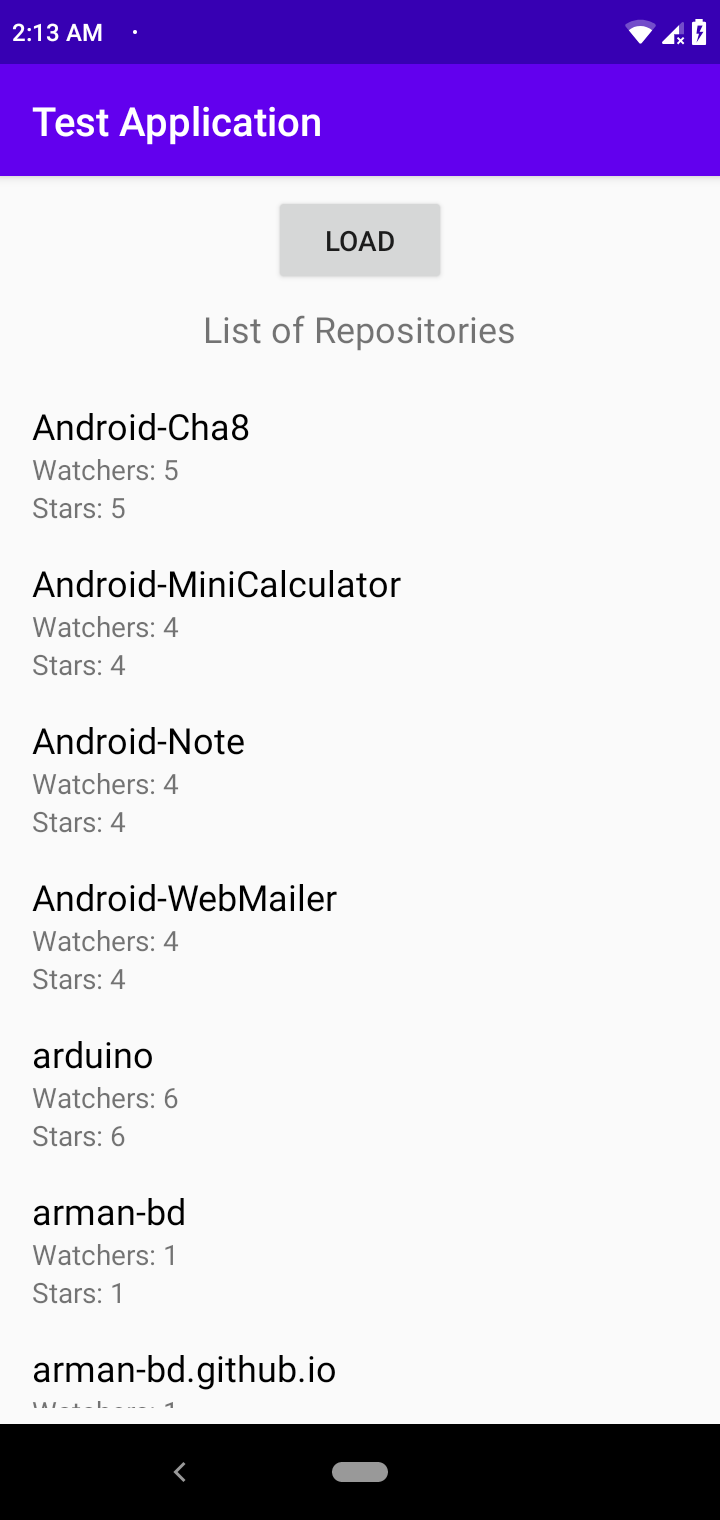
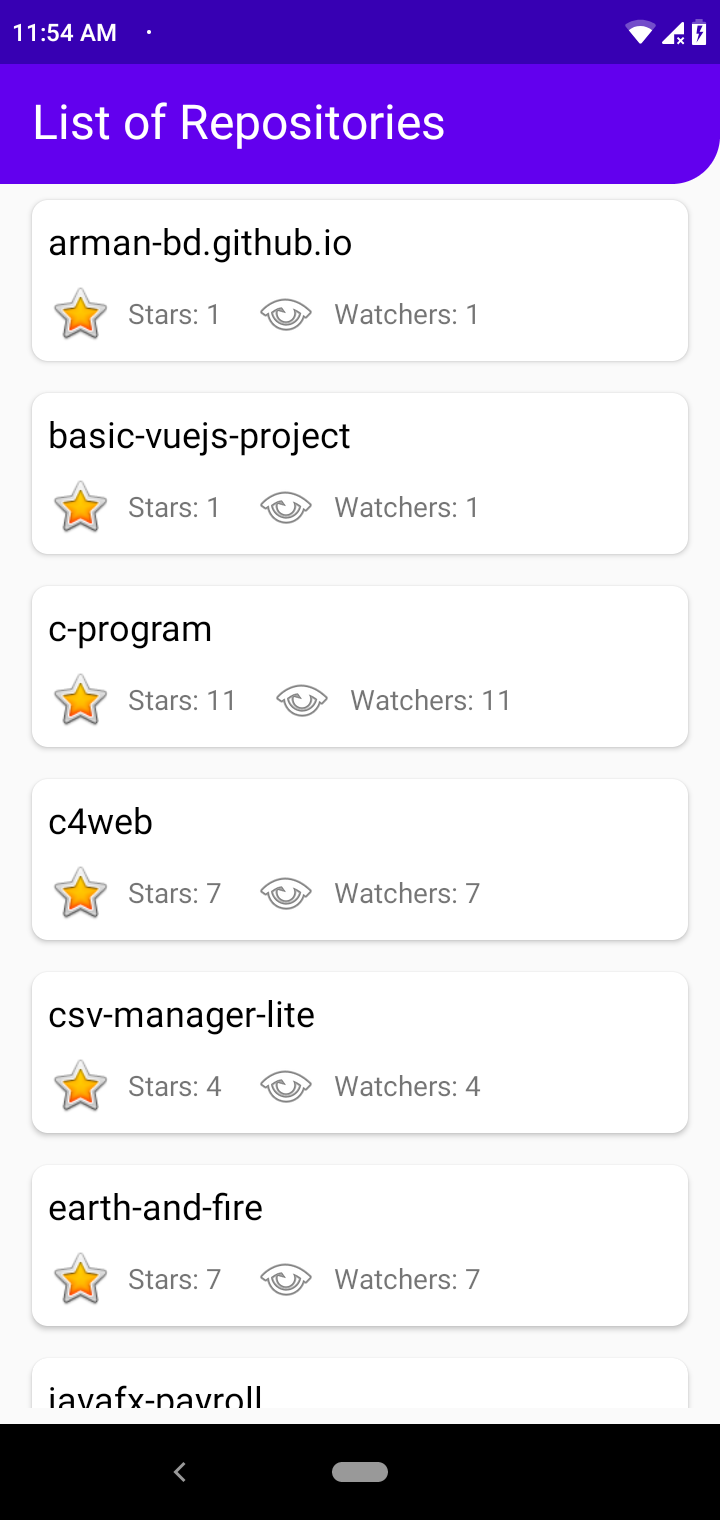
updated

diff --git a/app/src/main/java/test/kotlin/application/Activities/MainActivity.kt b/app/src/main/java/test/kotlin/application/Activities/MainActivity.kt
@@ -27,28 +27,25 @@ class MainActivity : AppCompatActivity() {
 
         viewManager = LinearLayoutManager(this)
 
+        val request = ServiceBuilder.buildService(GitHub::class.java)
+        val call = request.listRepos("arman-bd")
 
-        bindings.myButton.setOnClickListener{
-            val request = ServiceBuilder.buildService(GitHub::class.java)
-            val call = request.listRepos("arman-bd")
+        call.enqueue(object : Callback<List<Repositories>>{
+            override fun onFailure(call: Call<List<Repositories>>, t: Throwable) {
+                Log.d("Response", "Error")
+            }
 
-            call.enqueue(object : Callback<List<Repositories>>{
-                override fun onFailure(call: Call<List<Repositories>>, t: Throwable) {
-                    Log.d("Response", "Error")
-                }
-
-                override fun onResponse(call: Call<List<Repositories>>, response: Response<List<Repositories>>) {
-                    if(response.body() != null){
-                        viewAdapter = RepositoryAdapter(response.body()!!)
-                        recyclerView = bindings.myRecycler.apply {
-                            setHasFixedSize(true)
-                            layoutManager = viewManager
-                            adapter = viewAdapter
-                        }
+            override fun onResponse(call: Call<List<Repositories>>, response: Response<List<Repositories>>) {
+                if(response.body() != null){
+                    viewAdapter = RepositoryAdapter(response.body()!!)
+                    recyclerView = bindings.myRecycler.apply {
+                        setHasFixedSize(true)
+                        layoutManager = viewManager
+                        adapter = viewAdapter
                     }
                 }
-            })
-        }
+            }
+        })
 
     }
 }
